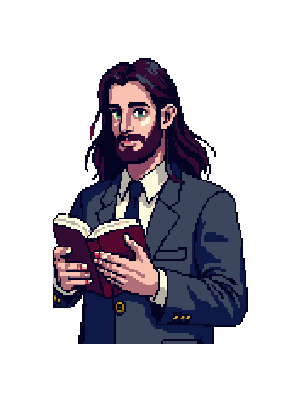
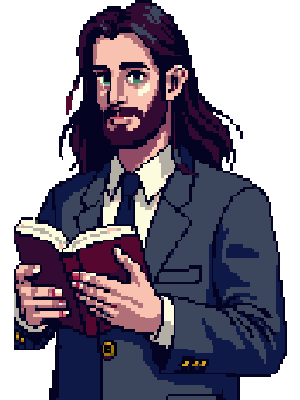
Update character expressions and enhance dialogue option navigation in BeachScene
- Updated character images for Dio: dio_angry, dio_neutral, dio_smile, dio_smirk, and dio_thoughtful.
- Improved dialogue option handling by adding keyboard navigation (UP, DOWN, ENTER).
- Refactored option button creation and hover effects for better user experience.
- Cleaned up event listeners after option selection to prevent memory leaks.

diff --git a/src/scenes/BeachScene.js b/src/scenes/BeachScene.js
@@ -559,7 +559,11 @@ class BeachScene extends Phaser.Scene {
 
     createOptions(options) {
         const optionHeight = 35;
-        options.forEach((option, index) => {
+        this.currentOptions = options; // Guardar referencia
+        this.selectedOptionIndex = 0; // Índice seleccionado
+        
+        // Crear botones
+        this.optionButtons = options.map((option, index) => {
             const btn = this.add.text(270, this.optionStartY + (index * optionHeight), `➤ ${option.text}`, {
                 fontSize: '18px',
                 fill: '#FFD700',
@@ -569,16 +573,59 @@ class BeachScene extends Phaser.Scene {
                 wordWrap: { width: 460 }
             })
             .setInteractive()
-            .on('pointerover', () => btn.setBackgroundColor('#3d3d3d'))
-            .on('pointerout', () => btn.setBackgroundColor('#2d2d2d'))
+            .on('pointerover', () => this.hoverOption(index))
+            .on('pointerout', () => this.resetOptionStyle(index))
             .on('pointerdown', () => this.handleOptionSelection(option))
             .setDepth(13);
             
             this.dialogueElements.push(btn);
+            return btn;
         });
+
+        // Resaltar opción inicial
+        this.hoverOption(0);
+        
+        // Habilitar navegación por teclado
+        this.input.keyboard.on('keydown-UP', this.handleKeyUp, this);
+        this.input.keyboard.on('keydown-DOWN', this.handleKeyDown, this);
+        this.input.keyboard.on('keydown-ENTER', this.handleKeyEnter, this);
+    }
+
+    hoverOption(index) {
+        // Resetear todos los estilos
+        this.optionButtons.forEach((btn, i) => {
+            btn.setBackgroundColor(i === index ? '#3d3d3d' : '#2d2d2d');
+            btn.setStyle({ fill: i === index ? '#FFA500' : '#FFD700' });
+        });
+        this.selectedOptionIndex = index;
+    }
+
+    resetOptionStyle(index) {
+        if (index === this.selectedOptionIndex) return;
+        this.optionButtons[index].setBackgroundColor('#2d2d2d');
+        this.optionButtons[index].setStyle({ fill: '#FFD700' });
+    }
+
+    handleKeyUp() {
+        this.selectedOptionIndex = Phaser.Math.Wrap(this.selectedOptionIndex - 1, 0, this.currentOptions.length);
+        this.hoverOption(this.selectedOptionIndex);
+    }
+
+    handleKeyDown() {
+        this.selectedOptionIndex = Phaser.Math.Wrap(this.selectedOptionIndex + 1, 0, this.currentOptions.length);
+        this.hoverOption(this.selectedOptionIndex);
+    }
+
+    handleKeyEnter() {
+        this.handleOptionSelection(this.currentOptions[this.selectedOptionIndex]);
     }
 
     handleOptionSelection(option) {
+        // Limpiar eventos de teclado
+        this.input.keyboard.off('keydown-UP', this.handleKeyUp, this);
+        this.input.keyboard.off('keydown-DOWN', this.handleKeyDown, this);
+        this.input.keyboard.off('keydown-ENTER', this.handleKeyEnter, this);
+        
         this.affinity += option.affinity;
         this.showDioResponse(option);
     }
@@ -650,8 +697,16 @@ class BeachScene extends Phaser.Scene {
     }
 
     clearDialogueElements() {
+        // Limpiar eventos de teclado
+        this.input.keyboard.off('keydown-UP', this.handleKeyUp, this);
+        this.input.keyboard.off('keydown-DOWN', this.handleKeyDown, this);
+        this.input.keyboard.off('keydown-ENTER', this.handleKeyEnter, this);
+        
+        // Resto del código de limpieza
         this.dialogueElements.forEach(element => element.destroy());
         this.dialogueElements = [];
+        this.optionButtons = [];
+        this.currentOptions = null;
     }
 
     createDialogueOverlay() {
